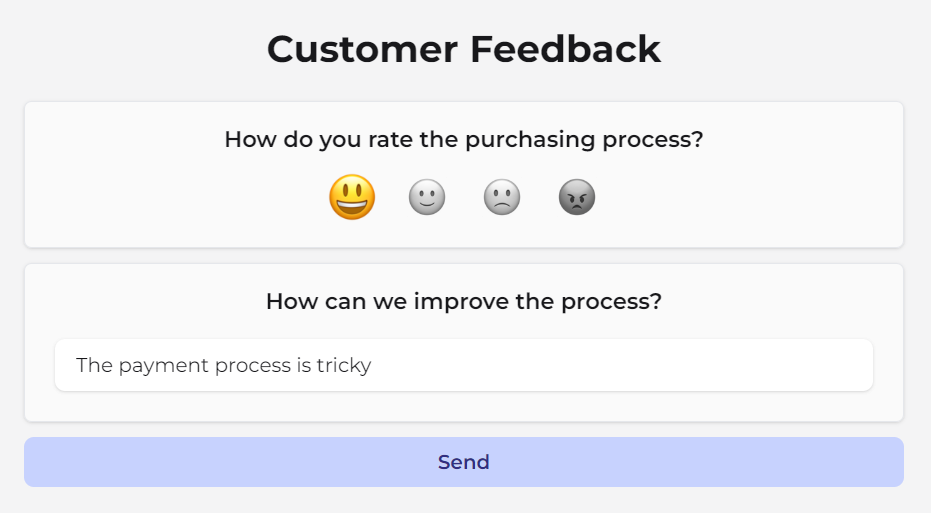
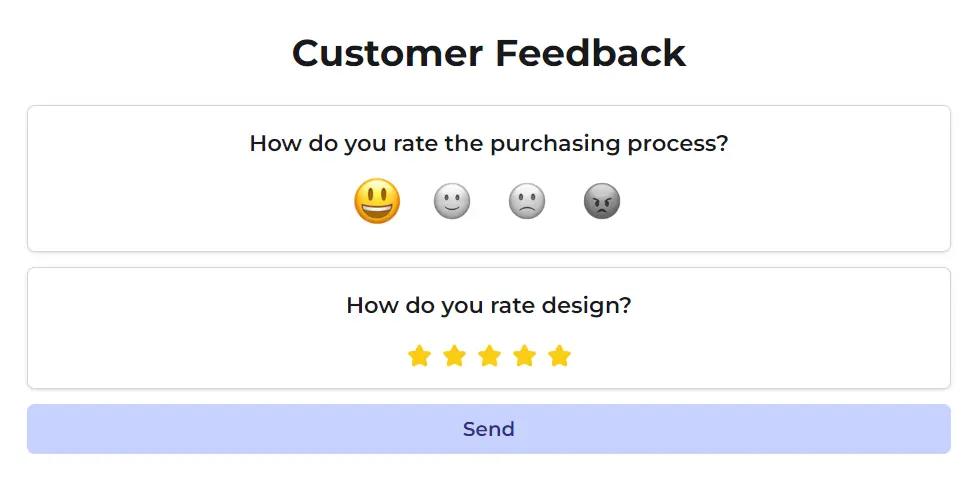
Feature/New app layout

diff --git a/src/layout/Background/Background.tsx b/src/layout/Background/Background.tsx
@@ -1,49 +1,20 @@
+import { useRouter } from 'next/router';
+import { HIDDEN_ELEMENTS_ROUTES } from 'shared/constants/routesConfig';
+
+/* eslint-disable tailwindcss/no-contradicting-classname */
 export default function Background() {
+  const router = useRouter();
+
   return (
-    <div
-      className="pointer-events-none fixed left-1/2 -z-10 mt-8 hidden -translate-x-1/2 overflow-hidden opacity-70 xl:block"
-      aria-hidden="true"
-    >
-      <svg
-        width="1360"
-        height="578"
-        viewBox="0 0 1360 578"
-        xmlns="http://www.w3.org/2000/svg"
-      >
-        <defs>
-          <linearGradient
-            x1="50%"
-            y1="0%"
-            x2="50%"
-            y2="100%"
-            id="illustration-01"
-          >
-            <stop stopColor="#FFF" offset="0%" />
-            <stop stopColor="#EAEAEA" offset="77.402%" />
-            <stop stopColor="#DFDFDF" offset="100%" />
-          </linearGradient>
-        </defs>
-        <g fill="url(#illustration-01)" fillRule="evenodd">
-          <circle cx="1232" cy="128" r="128" />
-          <circle cx="155" cy="443" r="64" />
-        </g>
-        <image
-          className="rotate-6 opacity-70"
-          y={180}
-          x={1200}
-          width="200"
-          height="200"
-          xlinkHref={'/images/emote2.svg'}
-        />
-        <image
-          className="-rotate-6 opacity-70"
-          y={100}
-          x={0}
-          width="200"
-          height="200"
-          xlinkHref={'/images/emote.svg'}
-        />
-      </svg>
-    </div>
+    <>
+      <div className="fixed inset-0 -z-10  h-full w-full bg-white bg-[linear-gradient(to_right,#8080800a_1px,transparent_1px),linear-gradient(to_bottom,#8080800a_1px,transparent_1px)] bg-[size:14px_24px]">
+        {!HIDDEN_ELEMENTS_ROUTES.includes(router.pathname) && (
+          <>
+            <div className="absolute bottom-auto left-auto right-0 top-0 hidden h-[300px] w-[300px] translate-x-[-30%] translate-y-[20%] rounded-full bg-[#C6D4FB] opacity-50 blur-[80px] xl:block"></div>
+            <div className="absolute bottom-auto left-0 right-auto top-0 hidden h-[400px] w-[400px] translate-x-[0%] translate-y-[100%] rounded-full bg-[#C6D4FB] opacity-50 blur-[80px] xl:block"></div>
+          </>
+        )}
+      </div>
+    </>
   );
 }

diff --git a/src/features/surveys/components/QuestionBlocks/QuestionBlockWrapper/QuestionBlockWrapper.tsx b/src/features/surveys/components/QuestionBlocks/QuestionBlockWrapper/QuestionBlockWrapper.tsx
@@ -79,7 +79,7 @@ export default function QuestionBlockWrapper({
         <div className="flex w-full items-start gap-2">
           <button
             onClick={onExpand}
-            className="cursor-pointer rounded-md border border-opacity-100 p-[13px]"
+            className="cursor-pointer rounded-md border border-opacity-100 bg-zinc-50 p-[13px]"
           >
             <ChevronDownIcon
               className={clsx(
@@ -115,7 +115,7 @@ export default function QuestionBlockWrapper({
             <div className="flex gap-2">
               {isDraggingPossible && (
                 <div
-                  className="cursor-pointer rounded-md border bg-white p-[13px] shadow-sm hover:scale-95"
+                  className="cursor-pointer rounded-md border  bg-zinc-50 p-[13px] shadow-sm hover:scale-95"
                   {...dragHandleProps}
                 >
                   <SelectorIcon className="w-[15px]" />
@@ -126,9 +126,9 @@ export default function QuestionBlockWrapper({
                   onClick={removeQuestion}
                   disabled={isEditMode}
                   data-test-id={`remove-question-${index}`}
-                  className="cursor-pointer rounded-md border bg-white p-[13px] shadow-sm hover:scale-95 disabled:cursor-not-allowed disabled:opacity-40 disabled:hover:scale-100"
+                  className="cursor-pointer rounded-md border border-red-200 bg-red-200 p-[13px] shadow-sm hover:scale-95 disabled:cursor-not-allowed disabled:opacity-40 disabled:hover:scale-100"
                 >
-                  <TrashIcon className="w-[15px] text-red-700" />
+                  <TrashIcon className="w-[15px] text-red-900" />
                 </button>
               )}
             </div>

diff --git a/src/pages/survey/answer/[surveyId]/index.tsx b/src/pages/survey/answer/[surveyId]/index.tsx
@@ -5,6 +5,8 @@ import {
   ShareIcon,
   TrashIcon,
 } from '@heroicons/react/outline';
+import NoAnswers from '/public/images/no-answers.svg';
+import Image from 'next/image';
 
 import Head from 'next/head';
 import withAnimation from 'shared/HOC/withAnimation';
@@ -121,7 +123,7 @@ function SurveyResultsPage({
               icon={<PencilIcon className="h-5 w-5" />}
             />
             <Button
-              title={t('buttonCopyLinkTitle')}
+              title={t('shareSurvey')}
               onClick={openShareSurveyModal}
               className="grow sm:grow-0"
               variant={ButtonVariant.PRIMARY}
@@ -154,7 +156,23 @@ function SurveyResultsPage({
         />
 
         {surveyData?.answers?.length === 0 && (
-          <div className="mt-6">{t('noAnswers')}</div>
+          <>
+            <Image
+              className="mx-auto mt-12 w-[140px]"
+              src={NoAnswers}
+              alt="no answers"
+            />
+            <div className="my-6">{t('noAnswers')}</div>
+            <Button
+              title={t('shareSurvey')}
+              onClick={openShareSurveyModal}
+              className="mx-auto w-full sm:w-[200px]"
+              variant={ButtonVariant.PRIMARY}
+              icon={<ShareIcon className="h-5 w-5" />}
+            >
+              <span className="ml-2">{t('shareSurvey')}</span>
+            </Button>
+          </>
         )}
 
         {Object.keys(mappedAnswersData).map((key) => (

diff --git a/src/layout/PageLayout.tsx b/src/layout/PageLayout.tsx
@@ -17,21 +17,21 @@ function PageLayout({ children }: PropsWithChildren) {
 
   return (
     <>
+      <Background />
       <AnimatePresence>{loading && <GlobalLoader />}</AnimatePresence>
-      <div className="max-h-screen-dvh relative flex h-screen flex-col justify-between">
+      <div className="flex min-h-screen flex-col justify-between overflow-x-hidden">
         {!HIDDEN_ELEMENTS_ROUTES.includes(router.pathname) && <Navigation />}
         <div
           className={clsx(
-            'mx-auto w-full overflow-auto px-6 py-8 text-center',
+            'mx-auto  w-full  px-6 py-8 text-center',
             HIDDEN_ELEMENTS_ROUTES.includes(router.pathname)
-              ? 'my-auto'
-              : 'flex-grow'
+              ? 'w-100 flex max-w-[54rem] flex-grow items-center justify-center'
+              : 'mb-4 mt-[60px] max-w-[58rem]'
           )}
         >
-          {!HIDDEN_ELEMENTS_ROUTES.includes(router.pathname) && <Background />}
           <AnimatePresence exitBeforeEnter initial={false}>
             <Fragment key={router.asPath}>
-              <div className={clsx('mx-auto max-w-[54rem]')}>{children}</div>
+              <div className={clsx('w-full')}>{children}</div>
             </Fragment>
           </AnimatePresence>
         </div>

diff --git a/src/pages/surveys/index.tsx b/src/pages/surveys/index.tsx
@@ -86,15 +86,15 @@ function SurveyListPage({
           ) : (
             <>
               <Image
-                className="mt-2 w-[160px] -translate-x-3"
+                className="mt-2 w-[160px] -translate-x-1"
                 src={NoSurveys}
                 alt="no surveys"
               />
-              <p className="my-8">{t('noSurveys')}</p>
+              <p className="my-6">{t('noSurveys')}</p>
               <ButtonLink
                 href={'/survey/create'}
-                variant={ButtonVariant.OUTLINE_PRIMARY}
-                className="w-full sm:w-auto"
+                variant={ButtonVariant.PRIMARY}
+                className="w-full sm:w-[200px]"
               >
                 {t('buttonCreateSurvey')}
               </ButtonLink>

diff --git a/src/layout/GlobalLoader/GlobalLoader.tsx b/src/layout/GlobalLoader/GlobalLoader.tsx
@@ -3,14 +3,16 @@ import Loader from 'shared/components/Loader/Loader';
 import Image from 'next/image';
 
 import logo from '../../../public/images/logo.svg';
+import Background from 'layout/Background/Background';
 
 export default function GlobalLoader() {
   return (
     <motion.div
       exit={{ opacity: 0 }}
       transition={{ duration: 0.3, type: 'tween' }}
-      className="fixed left-0 top-0 z-50 h-screen w-screen bg-zinc-100"
+      className="fixed left-0 top-0 z-50 h-screen w-screen"
     >
+      <Background />
       <div className="fixed left-[50%] top-[45%] w-full translate-x-[-50%] translate-y-[-50%] text-center">
         <Image className="mx-auto" priority src={logo} alt="logo" width={190} />
         <Loader className="mt-5" isLoading />

diff --git a/src/styles/index.scss b/src/styles/index.scss
@@ -7,6 +7,8 @@
   *::before,
   *::after {
     @apply box-border antialiased;
+
+    border-color: #d4d6da;
   }
   * {
     font-family: 'Montserrat', 'sans-serif';
@@ -25,7 +27,7 @@
     }
   }
   body {
-    @apply text-zinc-900 bg-zinc-100;
+    @apply text-zinc-900;
   }
 }
 
@@ -59,7 +61,7 @@
     @apply text-zinc-900 bg-zinc-100 shadow-zinc-600/50 hover:bg-zinc-50 border;
   }
   .btn-outline {
-    @apply text-indigo-900 bg-transparent border border-zinc-600/50 shadow-zinc-400/50 hover:bg-zinc-50;
+    @apply text-indigo-900 bg-zinc-50 border border-zinc-600/50 shadow-zinc-400/50 hover:bg-zinc-50;
   }
   .btn-outline-primary {
     @apply text-indigo-900 bg-transparent border border-indigo-900 shadow-indigo-400/50 hover:bg-indigo-50;

diff --git a/src/pages/login/index.tsx b/src/pages/login/index.tsx
@@ -14,7 +14,6 @@ import { getSession } from 'next-auth/react';
 import { NextPageContext } from 'next';
 
 export async function getServerSideProps(context: NextPageContext) {
-  
   const session = await getSession(context);
 
   if (session) {
@@ -103,7 +102,7 @@ function LoginPage() {
               )}
               <div className="flex flex-col items-center justify-center">
                 <LoginButton
-                  className="mb-2 mt-1 !bg-indigo-200 !text-indigo-900 hover:!bg-indigo-300"
+                  className="mb-2 mt-1 border-indigo-200 !bg-indigo-200 !text-indigo-900 hover:!bg-indigo-300"
                   type="submit"
                   onClick={handleSubmit}
                   isLoading={isSubmitting}

diff --git a/src/pages/signup/index.tsx b/src/pages/signup/index.tsx
@@ -13,7 +13,7 @@ import { NextPageContext } from 'next';
 
 export async function getServerSideProps(context: NextPageContext) {
   const session = await getSession(context);
- 
+
   if (session) {
     return {
       redirect: {
@@ -85,7 +85,7 @@ function SignupPage() {
 
               <div className="flex flex-col items-center justify-center">
                 <LoginButton
-                  className="mb-2 mt-1 !bg-indigo-200 !text-indigo-900 hover:!bg-indigo-300"
+                  className="mb-2 mt-1 border-indigo-200 !bg-indigo-200 !text-indigo-900 hover:!bg-indigo-300"
                   type="submit"
                   onClick={handleSubmit}
                   isLoading={isRegistering}

diff --git a/src/features/surveys/components/SurveyRow/SurveyRow.tsx b/src/features/surveys/components/SurveyRow/SurveyRow.tsx
@@ -44,8 +44,8 @@ export default function SurveyRow({
   };
 
   return (
-    <div className="mb-4 flex w-full flex-col md:flex-row">
-      <div className="flex w-full items-center justify-between rounded-md bg-white px-4 py-3 shadow-sm">
+    <div className="mb-4 flex w-full flex-col md:mb-3 md:flex-row">
+      <div className="flex w-full items-center justify-between rounded-md border bg-white/50 px-4 py-3 shadow-sm">
         <div title={question} className="w-40 truncate text-left md:w-60">
           {question}
         </div>

diff --git a/src/shared/components/LoginButton/LoginButton.tsx b/src/shared/components/LoginButton/LoginButton.tsx
@@ -26,7 +26,7 @@ function LoginButton({
       onClick={onClick}
       disabled={isLoading}
       className={clsx(
-        'btn relative my-1 flex w-full items-center justify-center rounded-lg bg-white py-2 pl-2 pr-4 font-semibold text-zinc-900 shadow hover:bg-zinc-50  active:bg-zinc-50',
+        'btn relative my-1 flex w-full items-center justify-center rounded-lg border bg-white py-2 pl-2 pr-4 font-semibold text-zinc-900 shadow-sm hover:bg-zinc-50  active:bg-zinc-50',
         className
       )}
       {...props}

diff --git a/src/shared/components/Input/Input.tsx b/src/shared/components/Input/Input.tsx
@@ -41,8 +41,8 @@ function Input({
           placeholder={placeholder}
           onChange={onChange}
           className={clsx(
-            'my-2 block w-full rounded-md border px-4 py-2 shadow focus:outline-none',
-            error ? 'border-red-400' : 'border-transparent',
+            'my-2 block w-full rounded-md border bg-white/50 px-4 py-2 shadow-sm focus:outline-none',
+            error && 'border-red-400',
             className
           )}
           {...props}
